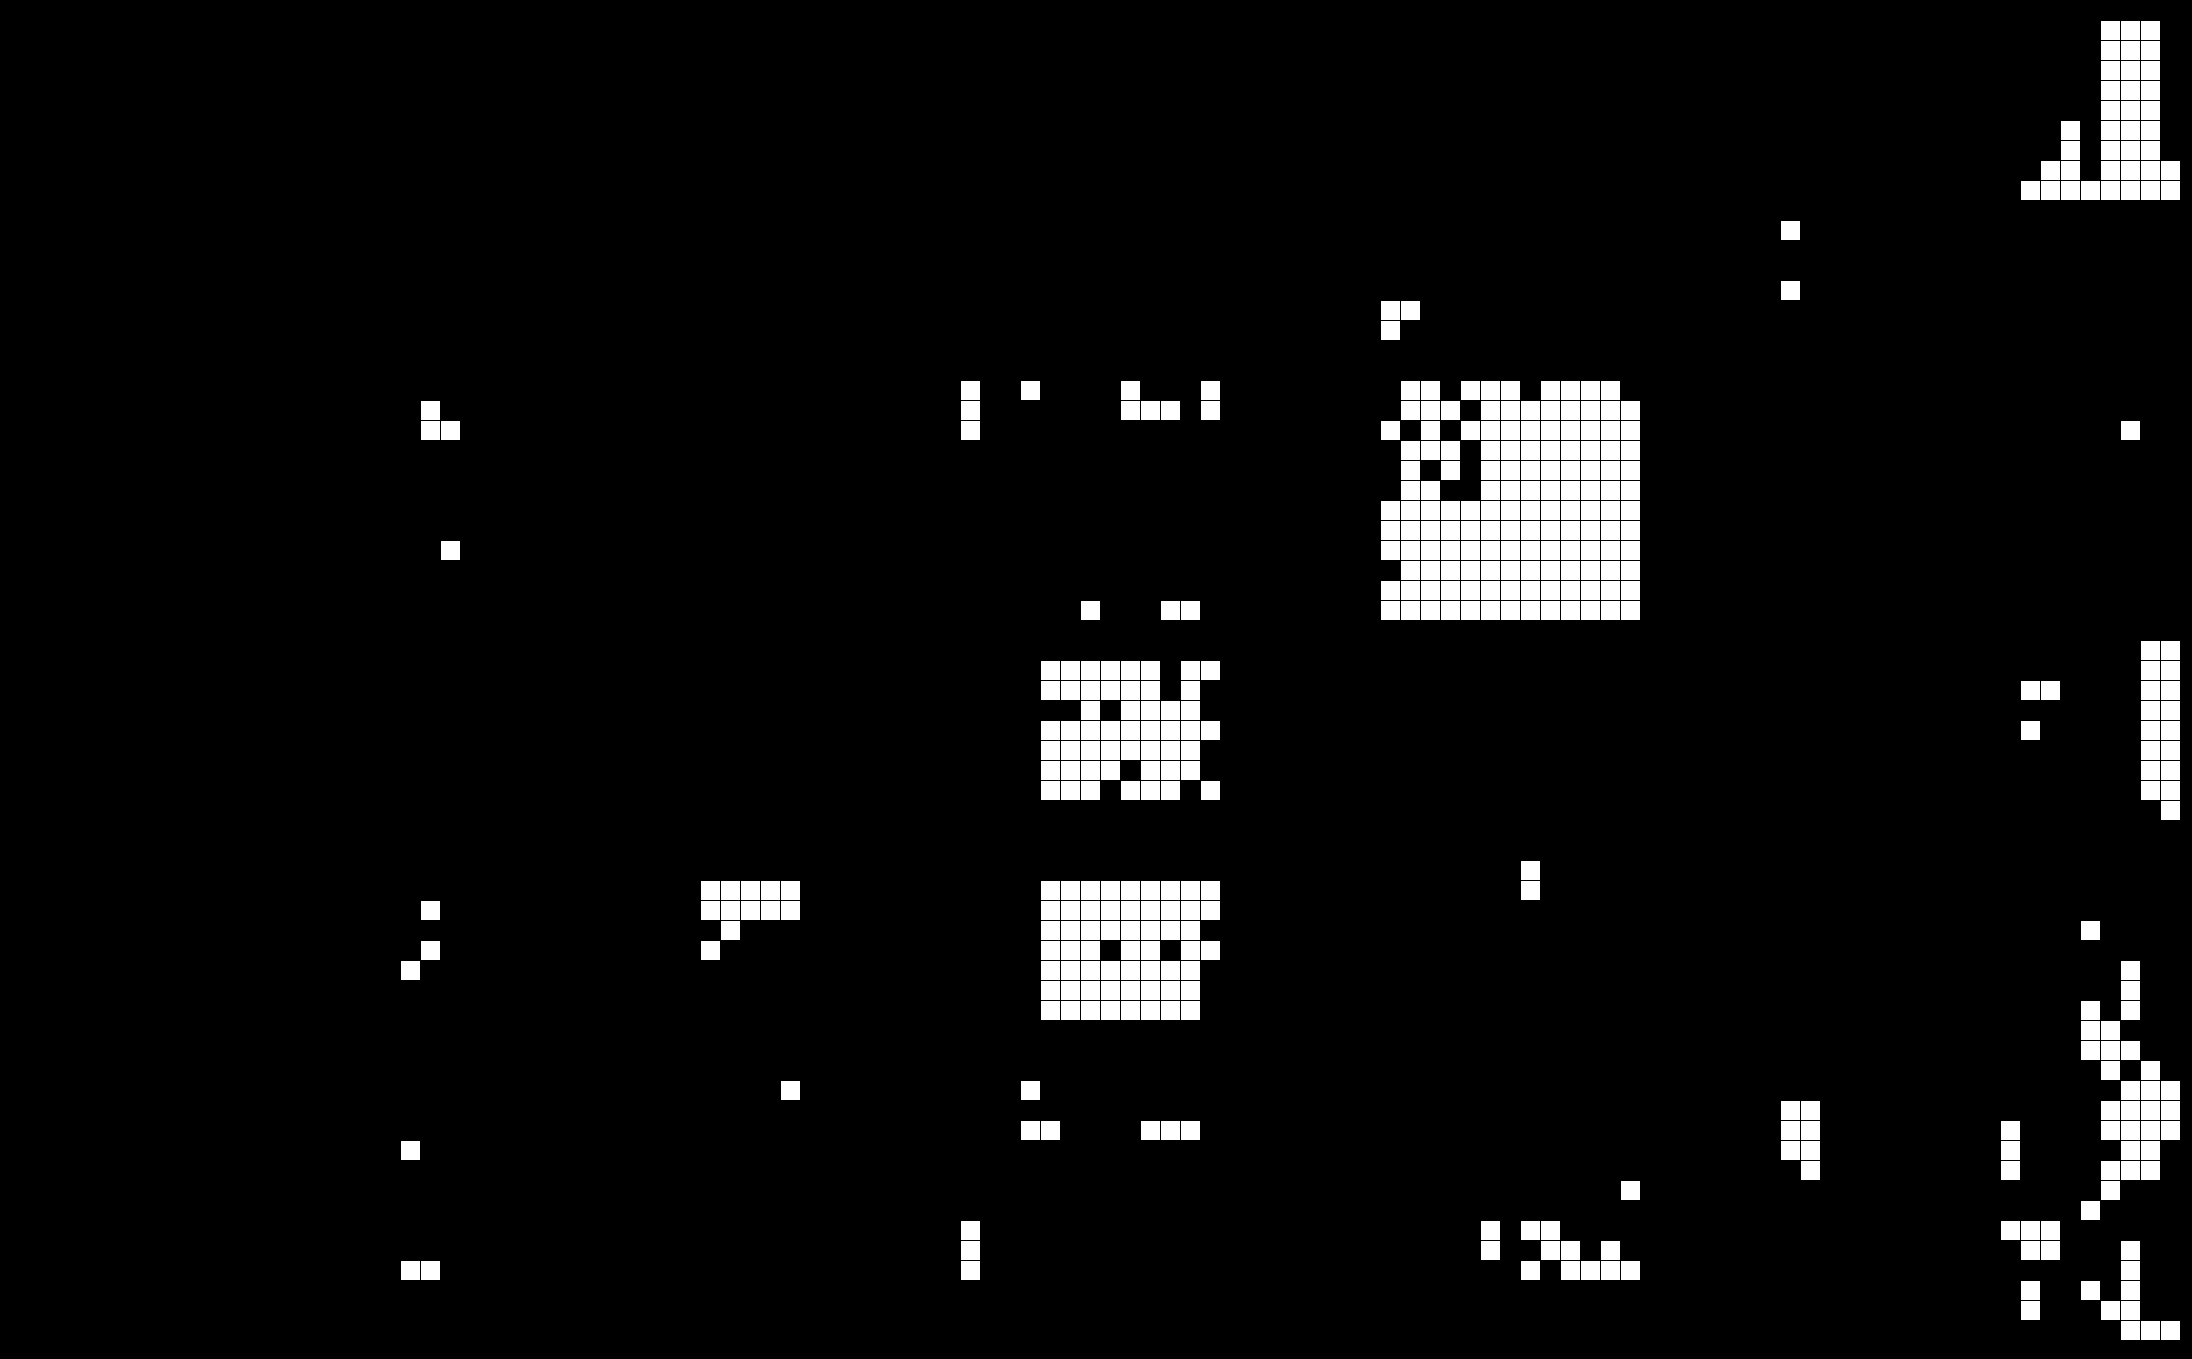
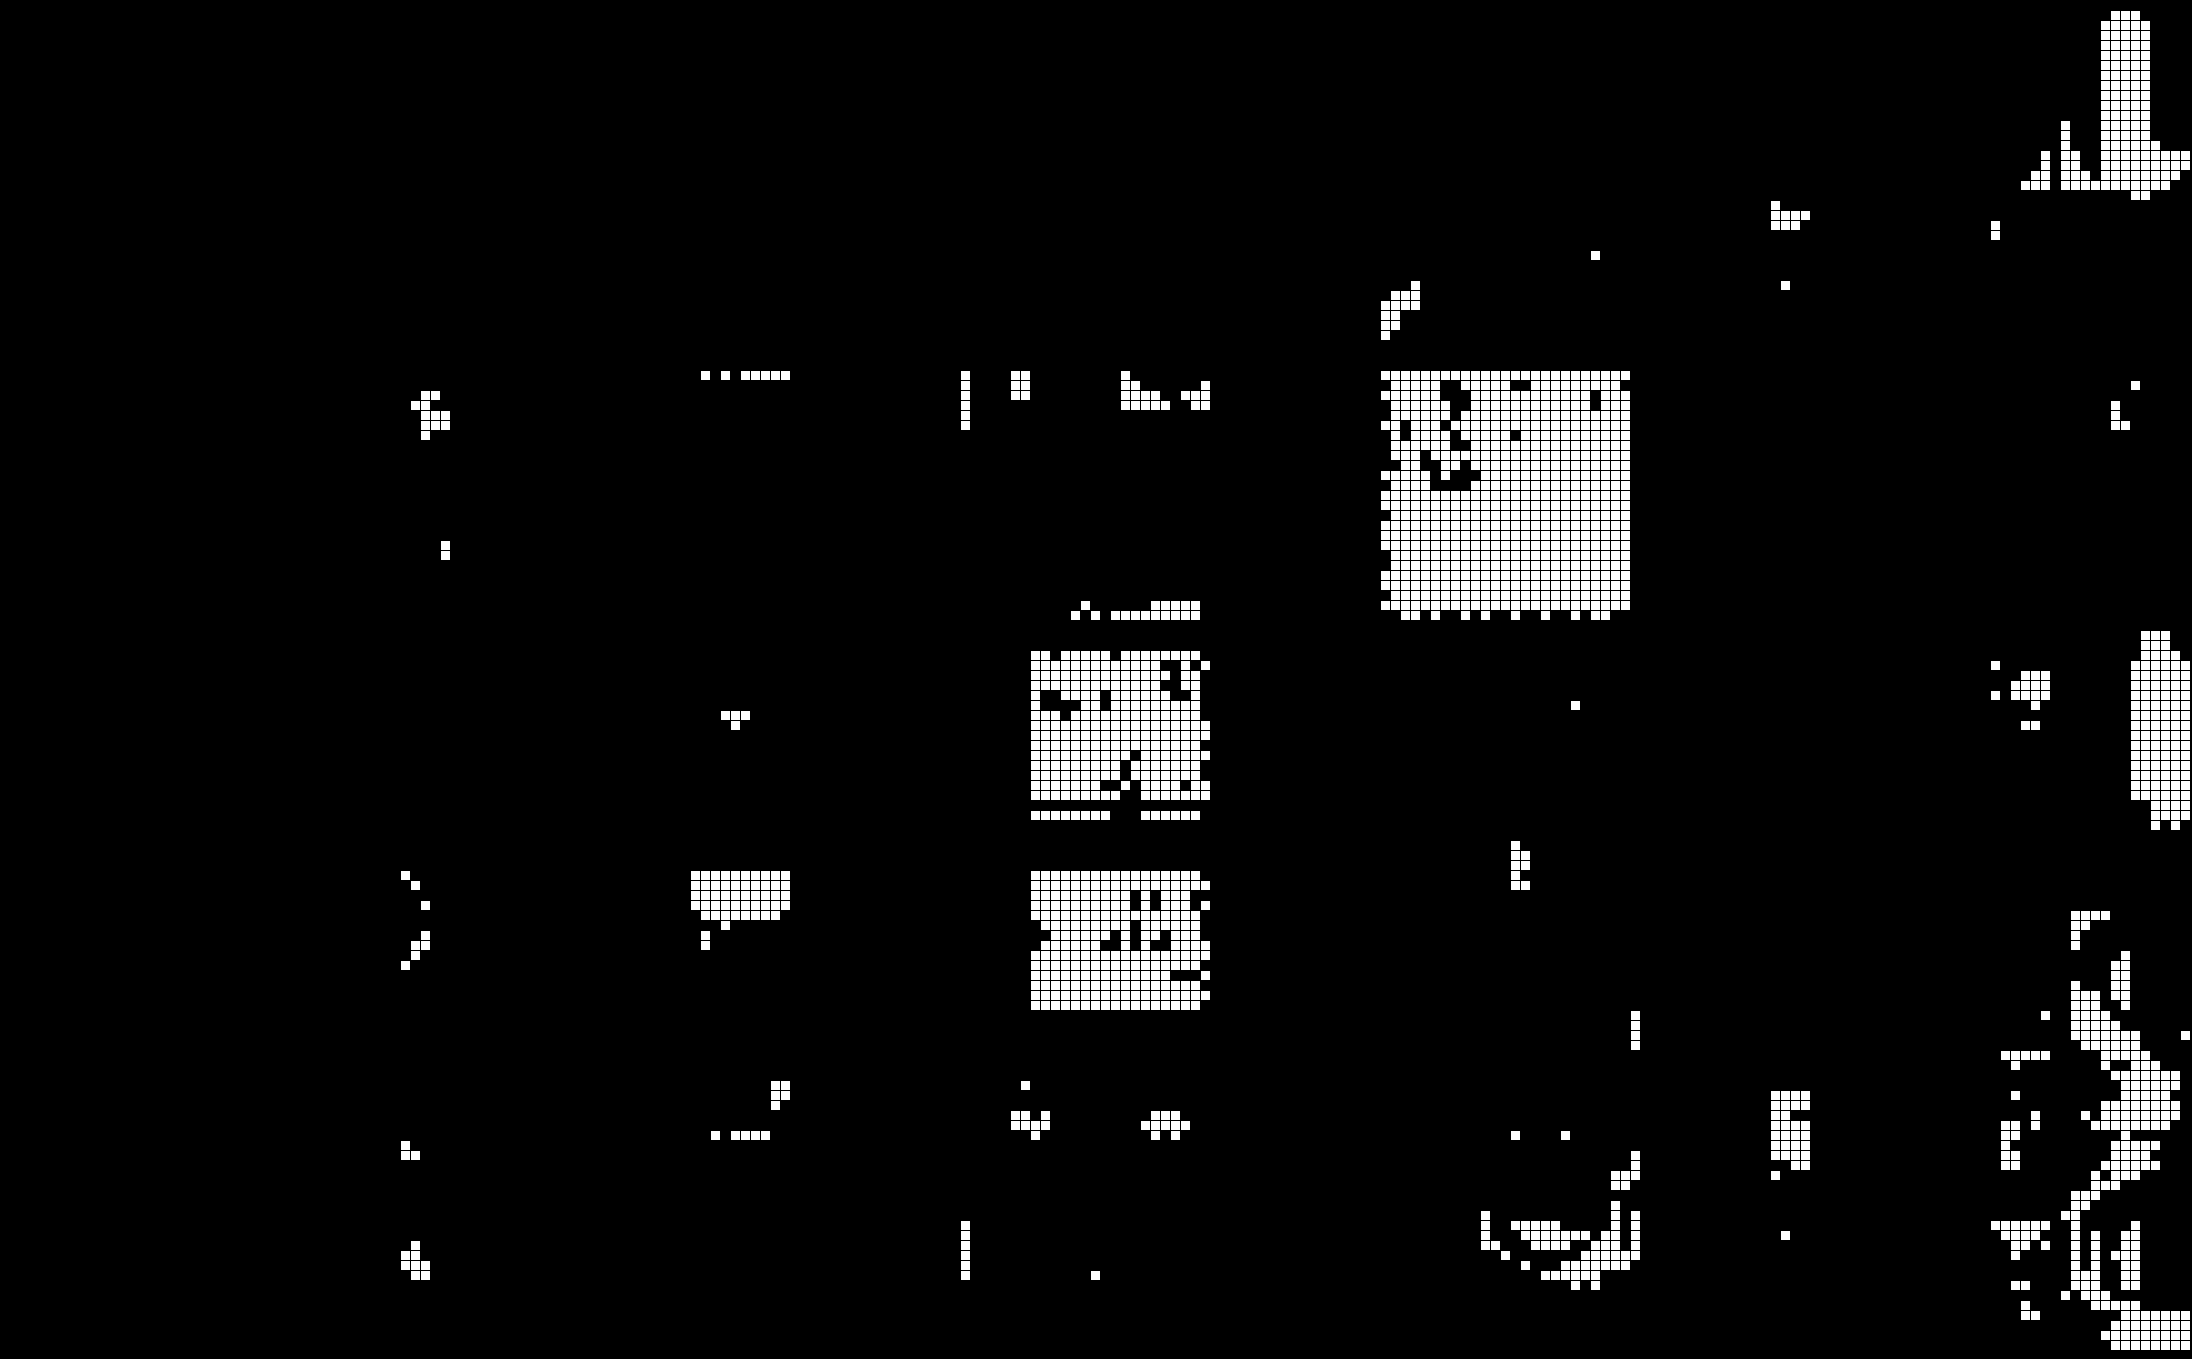
Draw boxes v1

diff --git a/B657HW1B/detect.cpp b/B657HW1B/detect.cpp
@@ -263,7 +263,7 @@ _DTwoDimArray<bool> hough_transform(const _DTwoDimArray<bool> &input) {
 	for (int i = 0; i < nrow; ++i)
 		for (int j = 0; j < ncol; ++j) {
 			int x = j, y = nrow - 1 - i;
-			if (input[y][x]) {
+			if (input[y][x])
 				for (int kk = -th_rad; kk < th_rad; ++kk) {
 					// Horizontal line, around normal theta = PI / 2
 					double theta = 0.5 * M_PI + kk * theta_unit;
@@ -277,7 +277,6 @@ _DTwoDimArray<bool> hough_transform(const _DTwoDimArray<bool> &input) {
 					if (rho >= 0 && rho < ncol)
 						vert[kk + th_rad][rho] += 1;
 				}
-			}
 		}
 
 	// Find lines with high votes
@@ -358,20 +357,79 @@ _DTwoDimArray<bool> slid_win(SDoublePlane &input) {
 	_DTwoDimArray<bool> ans(input.rows(), input.cols());
 	memset(ans.data_ptr(), 0, sizeof(bool) * ans.rows() * ans.cols());
 
-	int win_size = 10, check_size = 10;
-	double tol = 0.7;
+	int win_size = 5, check_size = 10;  // Check size is the size of the sequence to be checked in 1D subsampling
+	double tol = 0.7;  // If the fraction of true points within one window passes tol, then the window will be marked true
 	int row_start = win_size, row_end = input.rows() - win_size - 1,
 			col_start = win_size, col_end = input.cols() - win_size - 1;
 	for (int i = row_start; i < row_end; i += win_size)
 		for (int j = col_start; j < col_end; j += win_size)
 			if (calc_true_frac(input_bool, i + 1, i + 1, j, j + check_size) > tol &&
-					calc_true_frac(input_bool, i, i + check_size, j + 1, j + 1) > tol)
-				for (int k = 1; k < win_size; ++k)
-					for (int kk = 1; kk < win_size; ++kk)
+					calc_true_frac(input_bool, i, i + check_size, j + 1, j + 1) > tol)  // Check row under the start corner and the col to the right the corner to avoid serrated edges
+				for (int k = 0; k < win_size; ++k)
+					for (int kk = 0; kk < win_size; ++kk)
 						ans[i + k][j + kk] = true;
 	return ans;
 }
 
+vector<DetectedBox> mark_win(_DTwoDimArray<bool> &input, int win_size) {
+	int nrow = input.rows(), ncol = input.cols();
+	vector<DetectedBox> ans;
+	int row_start = win_size, row_end = input.rows() - win_size - 1,
+			col_start = win_size, col_end = input.cols() - win_size - 1;
+	int grid_nrow = (row_end - row_start) / win_size, grid_ncol = (col_end - col_start) / win_size;
+	_DTwoDimArray<bool> grid_unused(grid_nrow + 2, grid_ncol + 2);
+	memset(grid_unused.data_ptr(), 1, sizeof(bool) * grid_unused.rows() * grid_unused.cols());
+
+	for (int i = 0; i < grid_nrow; ++i) {
+		int row = row_start + i * win_size;
+		// printf("row = %d\n", row);
+
+		for (int j = 0; j < grid_ncol; ++j) {
+			int col = col_start + j * win_size;
+			if (input[row][col] && grid_unused[i][j]) {  // If a window beginning at (row, col) is marked as true
+				int score, score_tol = 2;
+				// Check rows below
+				int box_curr_row = i + 1, row_curr = row + win_size, last_row = row;
+				score = 0;
+				while (row_curr < row_end && score <= score_tol) {
+					if (!input[row_curr][col + win_size] || !grid_unused[box_curr_row][j + 1])  // If a window is false or used
+						++score;
+					else  // If a window is true
+						last_row = row_curr;
+					row_curr += win_size;
+					++box_curr_row;
+				}
+
+				// Check cols to the right
+				int box_curr_col = j + 1, col_curr = col + win_size, last_col = col;
+				score = 0;
+				while (col_curr < col_end && score <= score_tol) {
+					if (!input[row + win_size][col_curr] || !grid_unused[i + 1][box_curr_col])
+						++score;
+					else
+						last_col = col_curr;
+					col_curr += win_size;
+					++box_curr_col;
+				}
+
+				DetectedBox box;
+				box.row = row - win_size;
+				box.col = col - win_size;
+				box.height = last_row - row + 2 * win_size;
+				box.width = last_col - col + 2 * win_size;
+				box.confidence = 1;
+				ans.push_back(box);
+
+				int last_box_index_row = (last_row - row_start) / win_size + 1,
+						last_box_index_col = (last_col - col_start) / win_size + 1;
+				for (int ii = i; ii <= last_box_index_row; ++ii)
+					for (int jj = j; jj <= last_box_index_col; ++jj)
+						grid_unused[ii][jj] = false;
+			}
+		}
+	}
+	return ans;
+}
 
 
 void write_grayscale_png(const char* filename, const SDoublePlane &input) {
@@ -498,7 +556,6 @@ int main(int argc, char *argv[])
 	test_filename = "TT_IC"; test_filename.append(IC_num); test_filename.append("_05slidwin.png");
 	write_grayscale_png(test_filename.c_str(), output_slid_win);
 
-
 	// test step 2 by applying mean filters to the input image
 	/*SDoublePlane mean_filter(3,3);
 	for(int i=0; i<3; i++)
@@ -509,8 +566,8 @@ int main(int argc, char *argv[])
 
 	// randomly generate some detected ics -- you'll want to replace this
 	//  with your ic detection code obviously!
-	vector<DetectedBox> ics;
-	for(int i=0; i<10; i++)
+	vector<DetectedBox> ics = mark_win(output_2_bool, 5);
+	/*for(int i=0; i<10; i++)
 	{
 		DetectedBox s;
 		s.row = rand() % input_image.rows();
@@ -519,7 +576,7 @@ int main(int argc, char *argv[])
 		s.height = 20;
 		s.confidence = rand();
 		ics.push_back(s);
-	}
+	}*/
 
 	write_detection_txt("detected.txt", ics);
 	write_detection_image("detected.png", ics, input_image);
